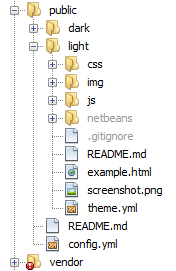
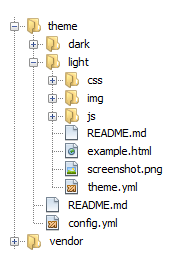
new functionallys

Changed region(s): [[0.142, 0.0, 0.9375, 1.0], [0.0568, 0.4723, 0.1136, 1.0], [0.0568, 0.0, 0.1136, 0.1181]]

diff --git a/src/Theme.php b/src/Theme.php
@@ -43,9 +43,12 @@ class Theme {
         if(is_string($css))
             return $css;
         
-        foreach($css as $value)
-            print '<link rel="stylesheet" type="text/css" href="'.$value.'"/>'.PHP_EOL;
-        
+        foreach($css as $value){
+            
+            $value = $this->buildPublicTmp($value);            
+            print '<link rel="stylesheet" type="text/css" href="' . Filter::httpPublicTmp($value) . '"/>'.PHP_EOL;
+            
+        }
     }
 
     
@@ -64,8 +67,10 @@ class Theme {
         if(is_string($js))
             return $js;
         
-        foreach($js as $value)
-            print '<script type="text/javascript" src="'.$value.'"></script>'.PHP_EOL;
+        foreach($js as $value) {            
+            $value = $this->buildPublicTmp($value);
+            print '<script type="text/javascript" src="' . Filter::httpPublicTmp($value) . '"></script>'.PHP_EOL;
+        }
         
     }
 
@@ -204,5 +209,29 @@ class Theme {
         
     }
     
+    /**
+     * Generate folder to files temporary of themes
+     * 
+     * This function replace true folder (that has all themes)
+     * by one folder public, when accessed by request HTTP.
+     * 
+     */
+    public function buildPublicTmp ( $path ) {
+        
+        //repository of all themes        
+        $repository  = $this->themeRepository();
+        $repository  = Filter::realPath($repository);
+        
+        //repository to access files of themes (symbolically)
+        $repository_tmp = $this->getFolderTmpTheme(); 
+       
+        $pos = strpos( $path, $repository );
+        
+        if ( $pos === 0)
+            return $repository_tmp . substr($path, strlen($repository));
+
+        return $path;
+        
+    }
     
 }

diff --git a/src/Container.php b/src/Container.php
@@ -87,10 +87,12 @@ class Container implements ContainerInterface {
     
     public function loadThemes($folder) {
         
+        $f_origin = $folder;
+                
         $folder = Filter::realPath($folder);
         
         if( !$folder ) {
-            throw new ErrorRuntime("Folder \"$folder\", not exists. It's important to save Themes.");
+            throw new ErrorRuntime("Folder \"$f_origin\", not exists. It's important to save Themes.");
         }
         
         $parser = new Parser();
@@ -109,6 +111,35 @@ class Container implements ContainerInterface {
                 "dark":
                 "one-style":
             
+DOC;
+            exit;
+        }
+        
+        
+        if( !$parser->file()
+                  ->exists( Filter::systemPath( $this->getFolderTmpTheme() )) ) {
+            
+            echo <<<DOC
+            <pre>
+            Please, follow steps:
+            
+                1 - Create a folder in "public/theme"
+                2 - Create a file in "public/theme/index.php", containing:
+            
+                    < ?php
+                    require_once __DIR__.'/../../vendor/autoload.php';
+                    use Glance\Response;
+                    Response::listenMessage();
+            
+                3 - Create a file in "public/theme/.htaccess", containing:
+            
+                    
+                    RewriteEngine On
+                    RewriteCond %{REQUEST_FILENAME} !-f
+                    RewriteCond %{REQUEST_FILENAME} !-d
+                    RewriteRule ^(.*)$ index.php?get=$1 [L]
+                    
+            </pre>
 DOC;
             exit;
         }

diff --git a/src/Glance.php b/src/Glance.php
@@ -69,9 +69,9 @@ class Glance {
         
         if( is_string($url) ) {
             
-            $url = $this->buildFolderTmp($url);
+            $url = $this->theme->buildPublicTmp($url);
             
-            return Filter::httpPathTmp($url);
+            return Filter::httpPublicTmp($url);
             
         }
         
@@ -79,9 +79,9 @@ class Glance {
             
             foreach($url as $k => $v) {
                 
-                $v = $this->buildFolderTmp($v);
+                $v = $this->theme->buildPublicTmp($v);
                 
-                $url[$k] = Filter::httpPathTmp($v);
+                $url[$k] = Filter::httpPublicTmp($v);
                 
             }
             
@@ -91,30 +91,4 @@ class Glance {
 
     }
     
-    /**
-     * Generate folder to files temporary of themes
-     * 
-     * This function replace true folder (that has all themes)
-     * by one folder public, when accessed by request HTTP.
-     * 
-     */
-    public function buildFolderTmp ( $path ) {
-        
-        //repository of all themes        
-        $repository     = $this->theme->themeRepository();
-        
-        //repository to access files of themes (symbolically)
-        $repository_tmp = $this->theme->getFolderTmpTheme();
-        
-        $pos = strpos( $path, $repository );
-        
-        
-        if ( $pos === 0)
-            return $repository_tmp . substr($path, strlen($repository));
-        
-        
-        return $path;
-        
-    }
-
 }

diff --git a/src/Extensions.php b/src/Extensions.php
@@ -122,10 +122,10 @@ class Extensions implements ExtensionsInterface {
 		return "image/png";
                 
             case self::CSS:                
-		return "text/plain";
+		return "text/css";
              
             case self::JS:                
-		return "text/plain";
+		return "application/javascript";
                 
             case self::HTML:
 		return "text/html";

diff --git a/src/Filter.php b/src/Filter.php
@@ -65,7 +65,7 @@ class Filter {
      * @param mixed $salt Create salt automatically, defined or false
      * @return string
      */
-    public static function httpPathTmp($path, $salt=true) {
+    public static function httpPublicTmp($path, $salt=true) {
         
         if($salt === true)
             return str_replace('\\','/', $path) . "?" . sha1(uniqid());

diff --git a/README.md b/README.md
@@ -28,18 +28,7 @@ Create a file composer.json with the following content:
 ```json 
 {
     "require": {
-        "php": ">=5.3.9",
-        "symfony/yaml": "~2.1|~3.0",
-        "symfony/filesystem": "~2.1|~3.0"
-    },
-    "require-dev": {
-        "phpunit/phpunit": "~4.0"
-    },
-    "autoload": {
-        "psr-4": {
-            "Glance\\": "vendor/roggeo/glance/src"
-        }
-
+        "roggeo/glance": "dev-master"
     }
 }
 ```
@@ -57,13 +46,13 @@ Or simply (if you have installed Composer):
     $ composer require roggeo/glance:dev-master
 
 
-##Creating files of configurations
+##Starting the toy. See steps
 
-* public/config.yml
 
-Main file to write names of themes and tags to project:
+* 1) Create one file **your-folder-themes/config.yml**:
 
 ```yml
+# Name of the themes, if enabled tell true
 themes:
     "sometheme1":
     "sometheme2":
@@ -71,11 +60,11 @@ themes:
     "sometheme4":
 ``` 
 
-* public/sometheme3/theme.yml
 
-Information of a specific theme:
+* 2) Create one file **your-folder-themes/your-theme/theme.yml**:
 
 ```yml
+#Information of a specific theme
 theme  : Litht
 author : Geovani
 email  : name@email.com
@@ -86,9 +75,31 @@ description: >
     Theme default for Glance
 ```
 
-The structure should be as follows:
+
+* 3) Check your **Reposytory of themes**, should be as follows:
 
 [![Glance Explorer](docs/img/explorer.png)](#)
+
+
+* 4) Create one file **public/theme/index.php**, and insert code:
+
+```php
+require_once __DIR__.'/../../vendor/autoload.php';
+use Glance\Response;
+Response::listenMessage();
+```
+
+
+* 5) Create one file **public/theme/.htaccess**, and insert code:
+
+```sh
+<IfModule mod_rewrite.c>
+RewriteEngine On
+RewriteCond %{REQUEST_FILENAME} !-f
+RewriteCond %{REQUEST_FILENAME} !-d
+RewriteRule ^(.*)$ index.php?get=$1 [L]
+</IfModule>
+```
 
 
 ##Examples
@@ -102,7 +113,13 @@ The structure should be as follows:
 
 ```php
 
-$theme = new Glance();
+use Glance\Glance,
+    Glance\Config;
+
+$conf = new Config();
+$conf->setFolderTheme('C:\\themes');
+
+$theme = new Glance($conf);
 
 //images
 $theme->img("name-image", "png");
@@ -150,7 +167,11 @@ use Glance\Glance,
     Glance\Config;
 
 $conf = new Config();
-$conf->setFolderTheme('themes');
+
+// Defining folder repository of all yours themes
+$conf->setFolderTheme('C:\\themes');
+
+$theme = new Glance($conf);
 
 $theme = new Glance($conf);
 ?>
